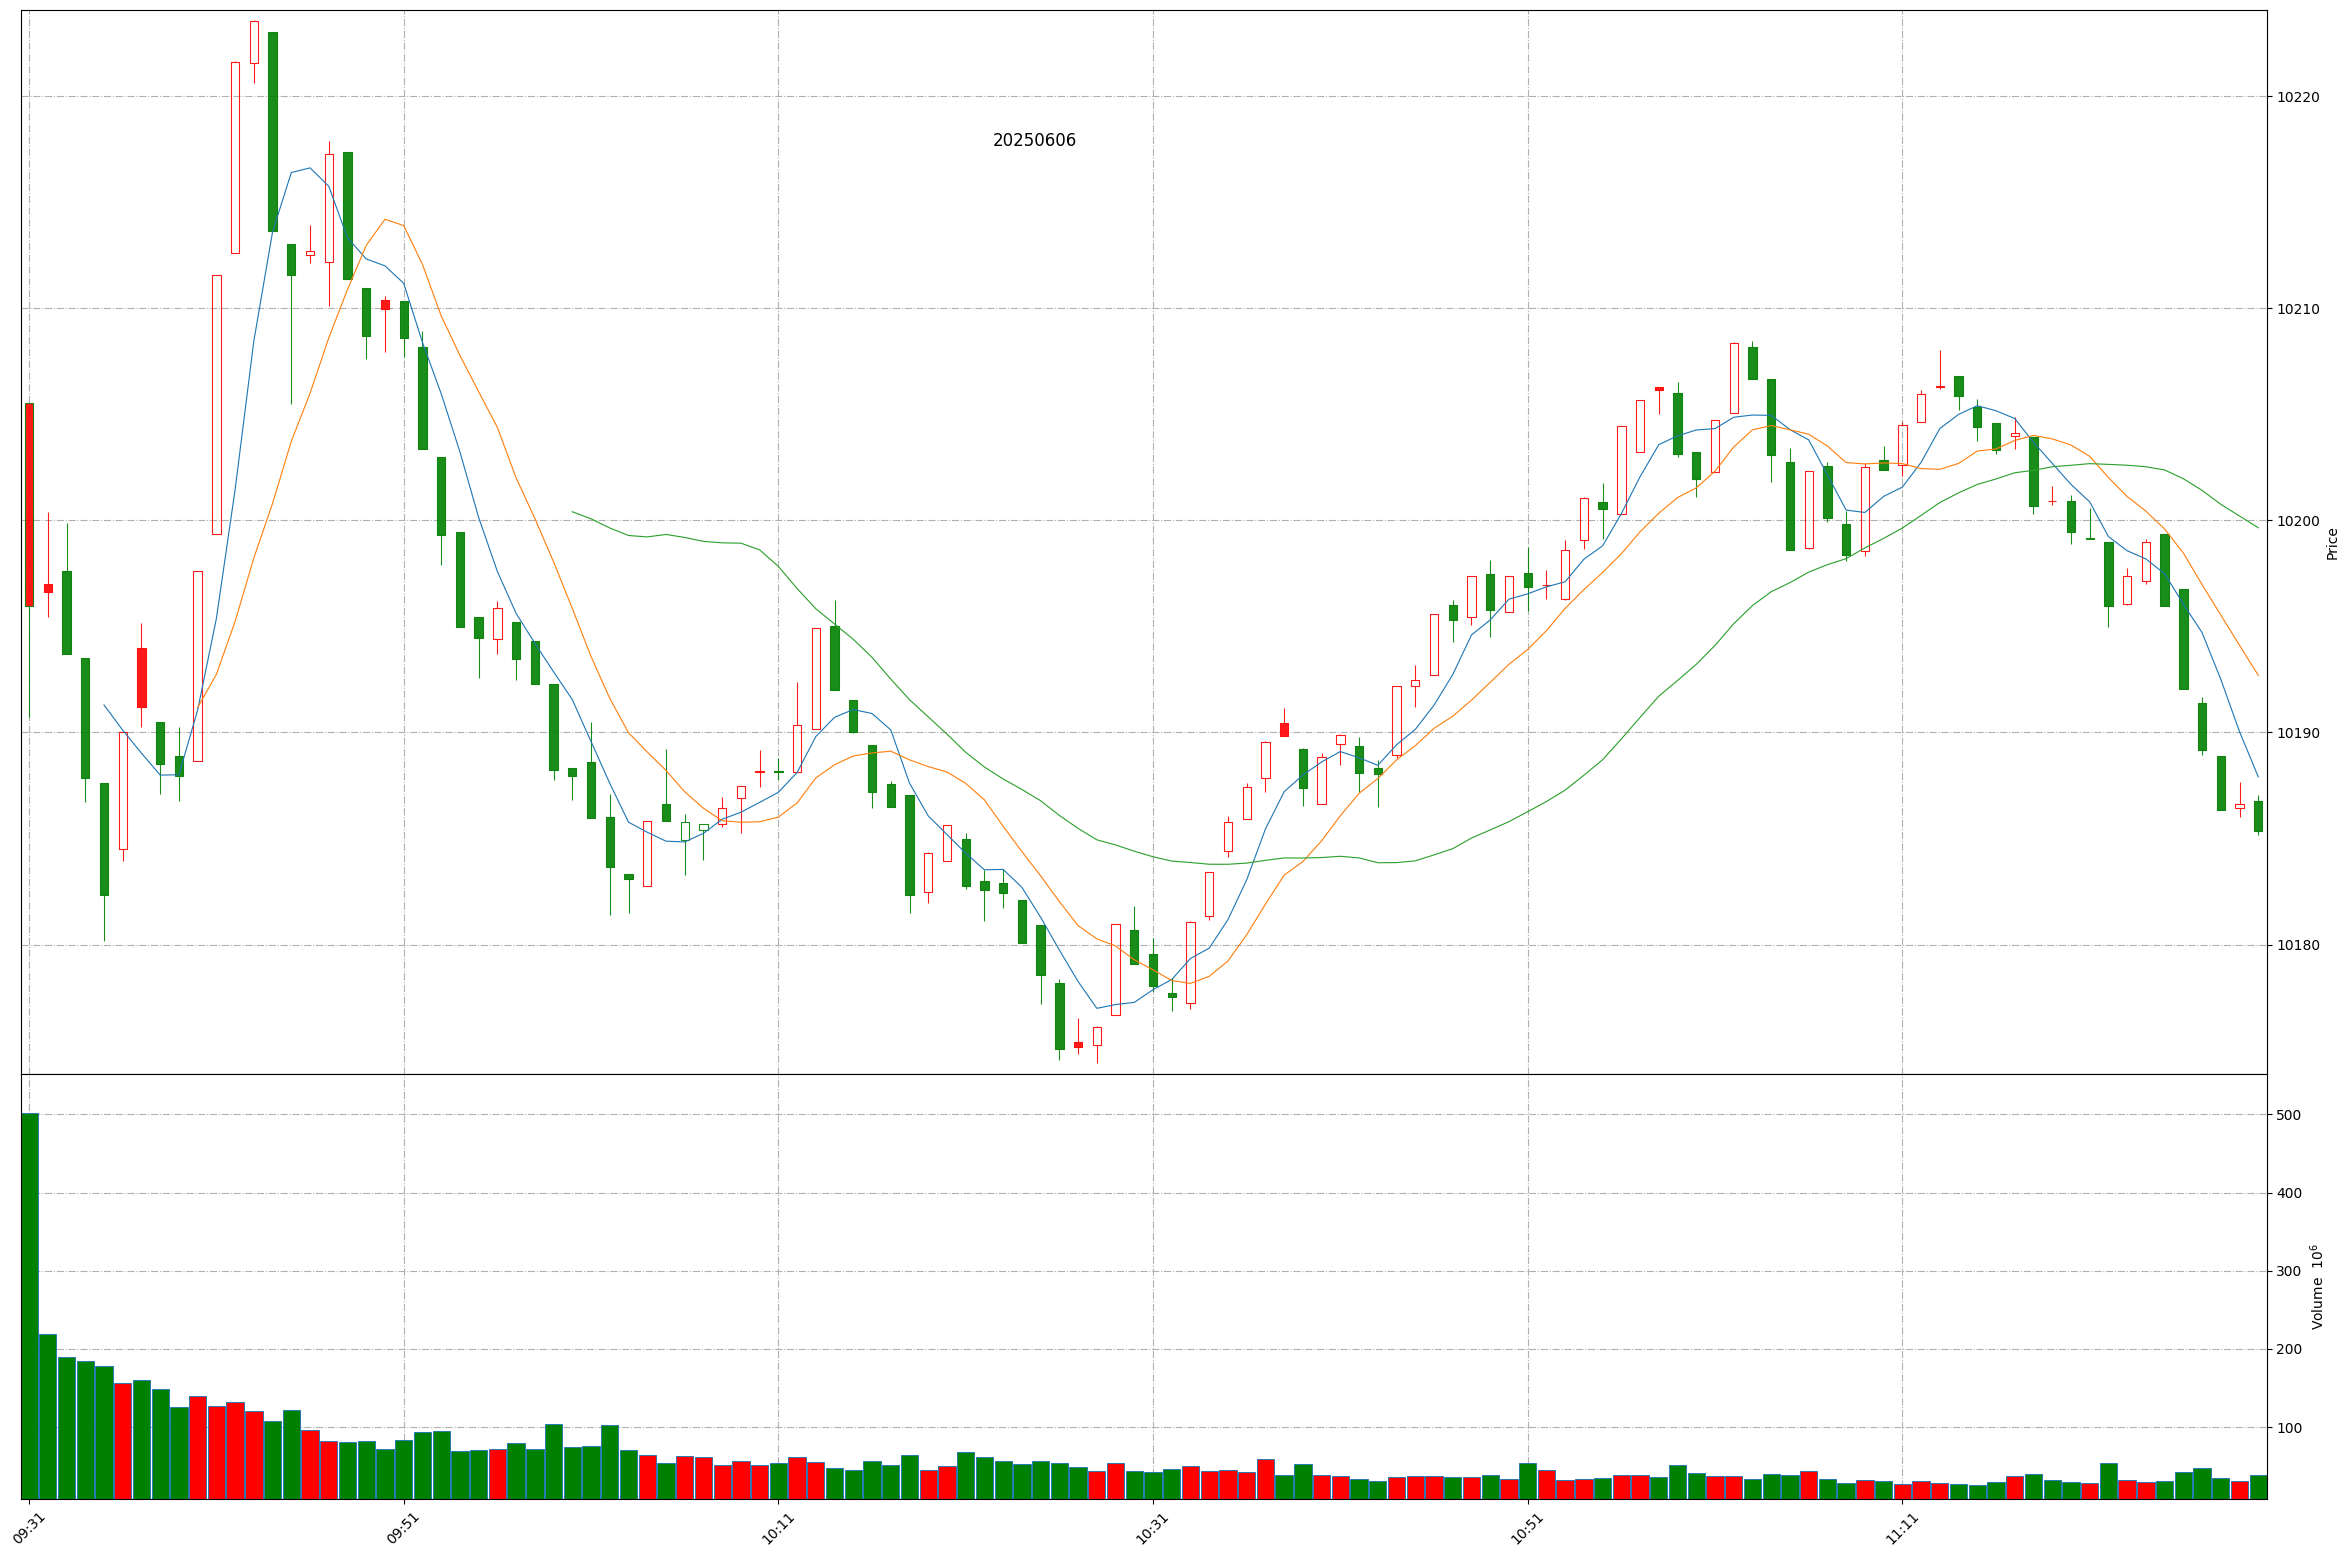
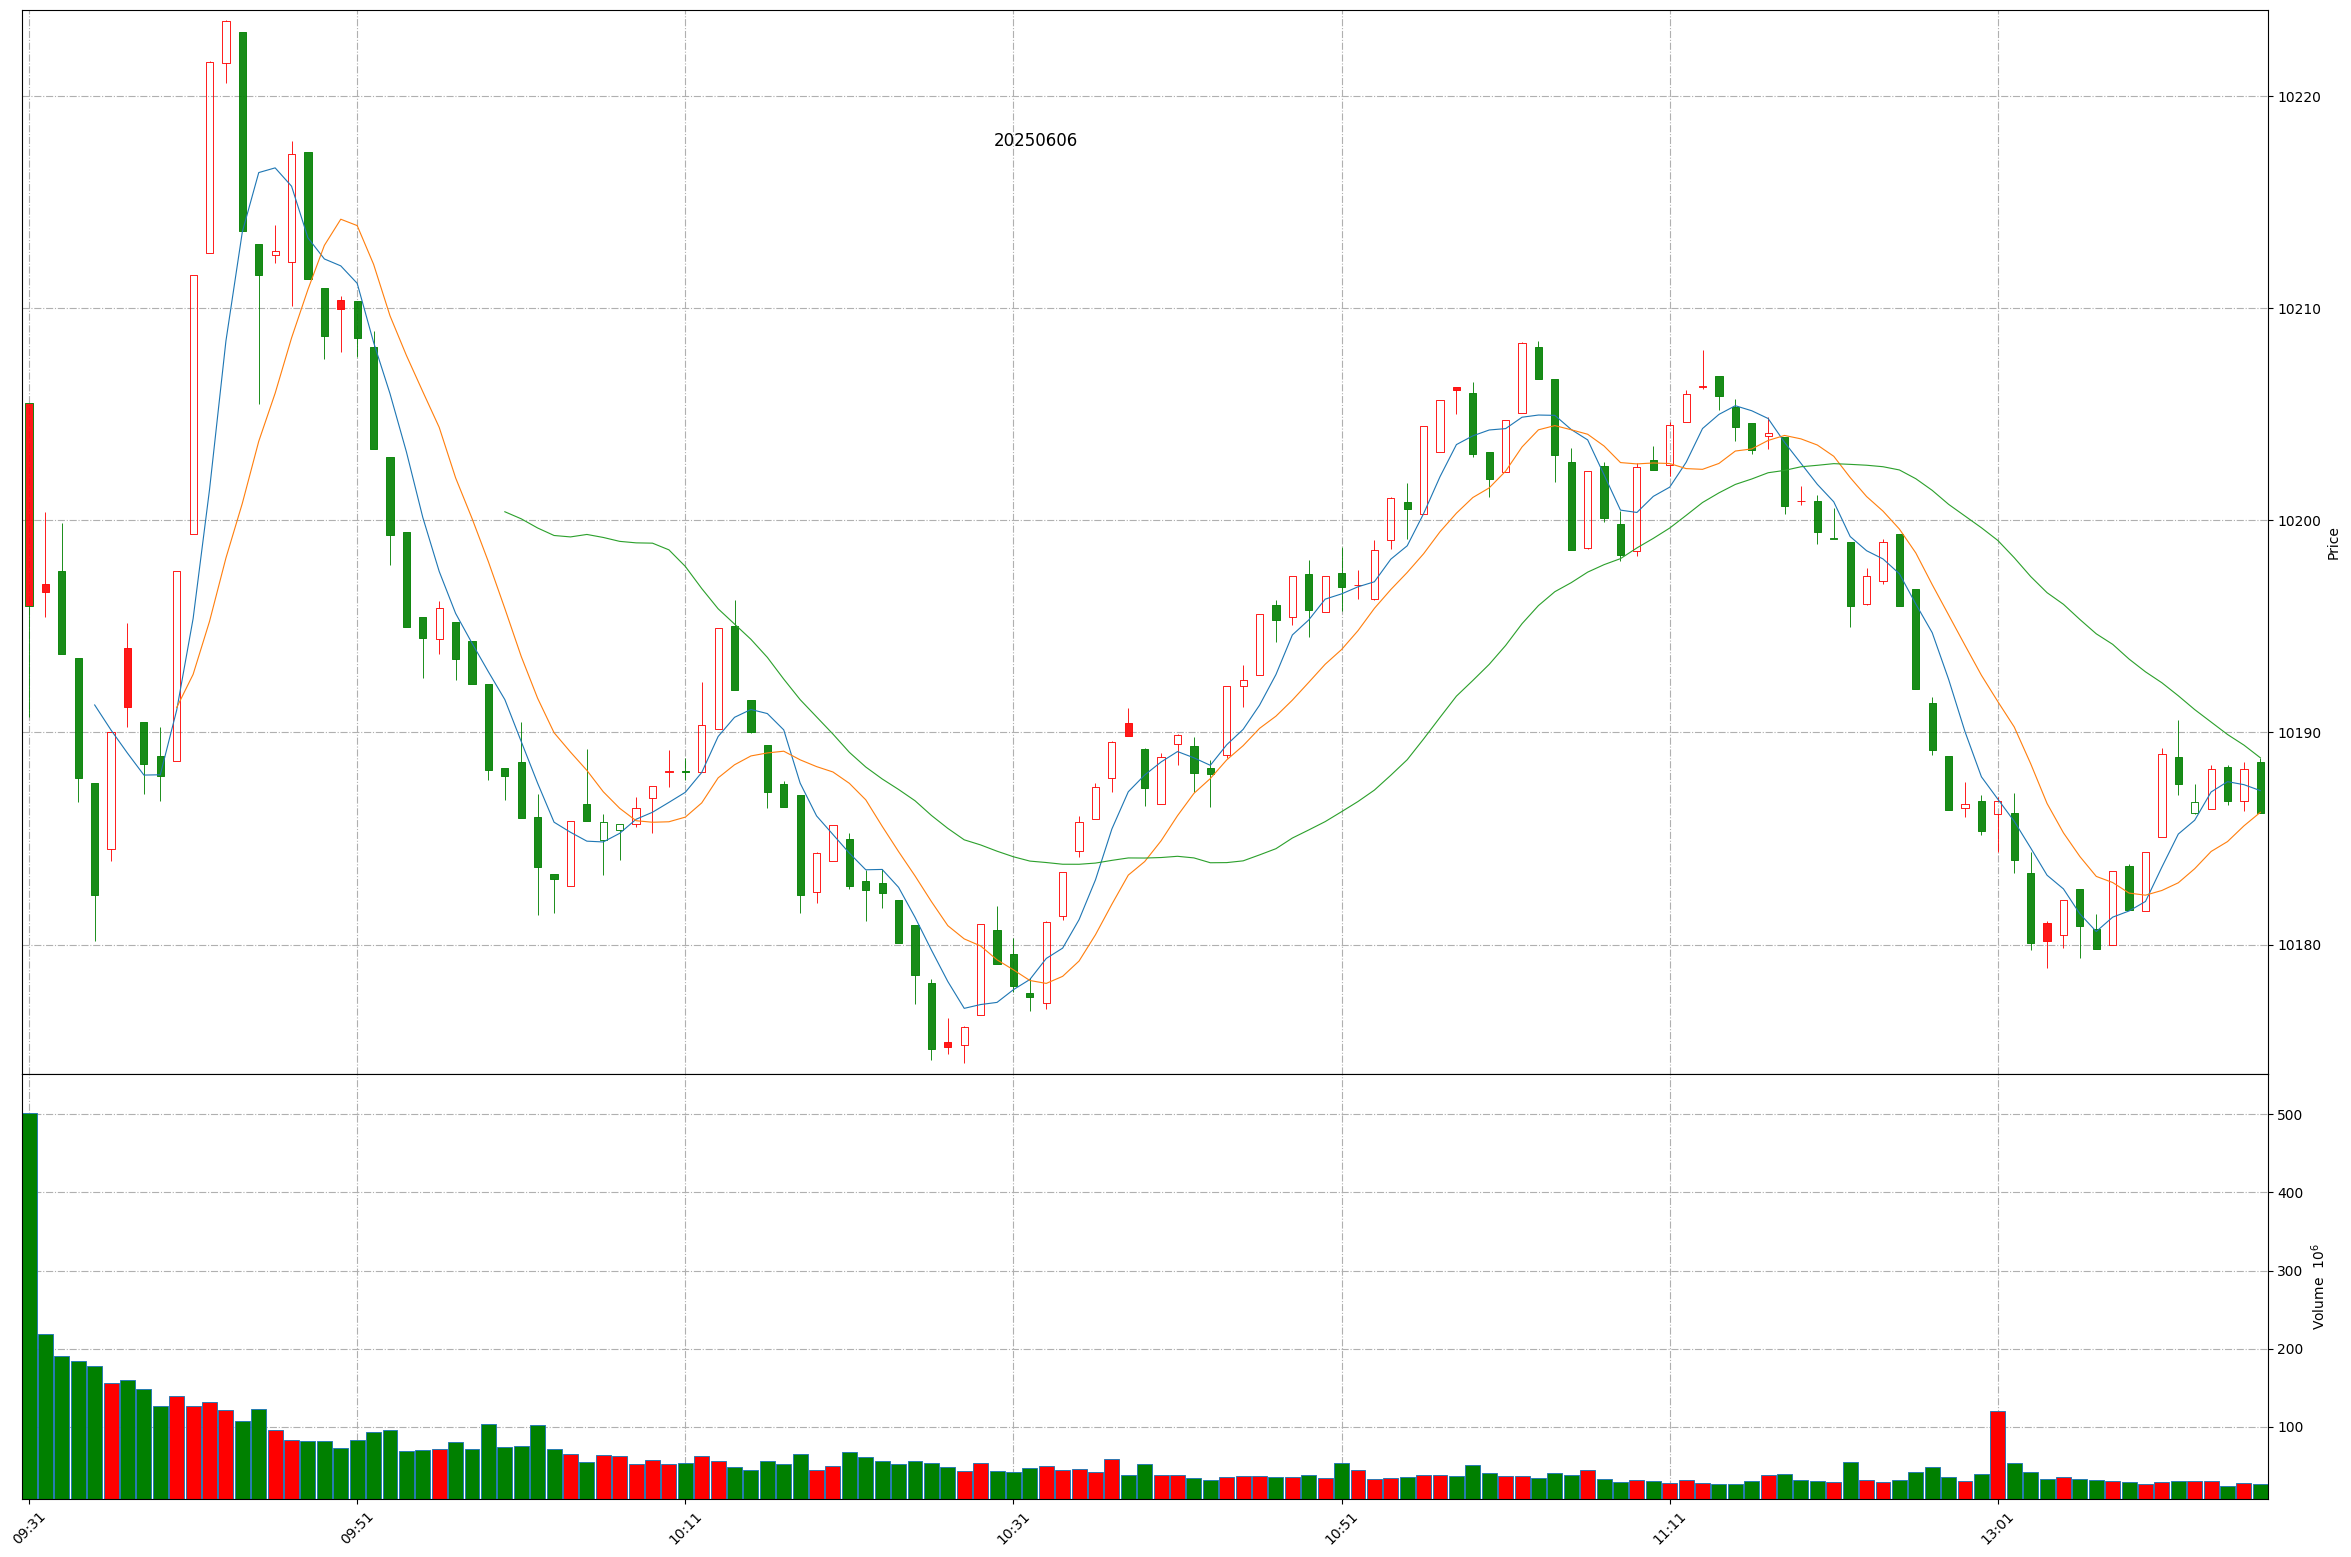
Github action update at 2025-06-06 13:16:58.

diff --git a/README.md b/README.md
@@ -1,11 +1,11 @@
 
 # Daily-A-share-market-quotes 每日 A 股指数（5min 更新）- 20250606
 
-### 上证指数 20250606 11:58
+### 上证指数 20250606 13:16
 ![](./fig/2025/6/20250606-sh000001.png)
 
-### 深证成指 20250606 11:58
+### 深证成指 20250606 13:16
 ![](./fig/2025/6/20250606-sz399001.png)
 
-### 北证50 20250606 11:58
+### 北证50 20250606 13:16
 ![](./fig/2025/6/20250606-bj899050.png)
